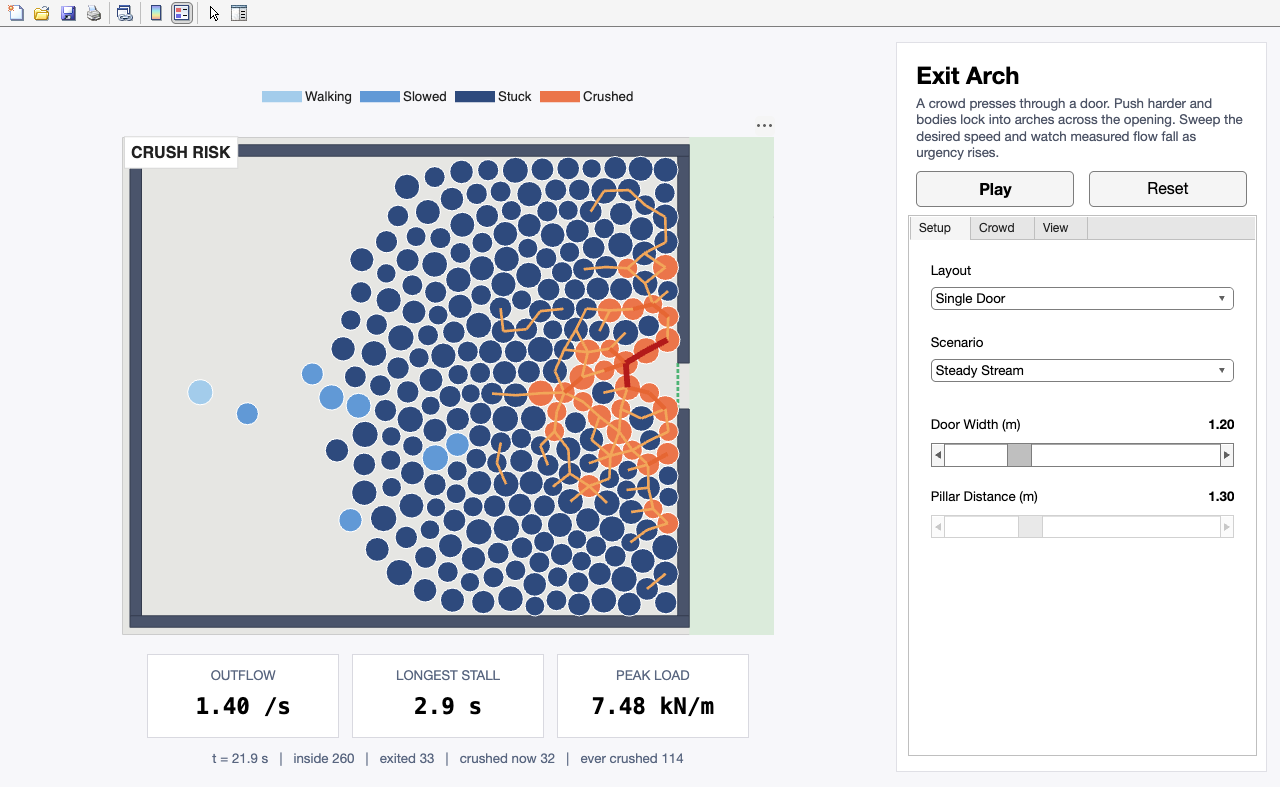
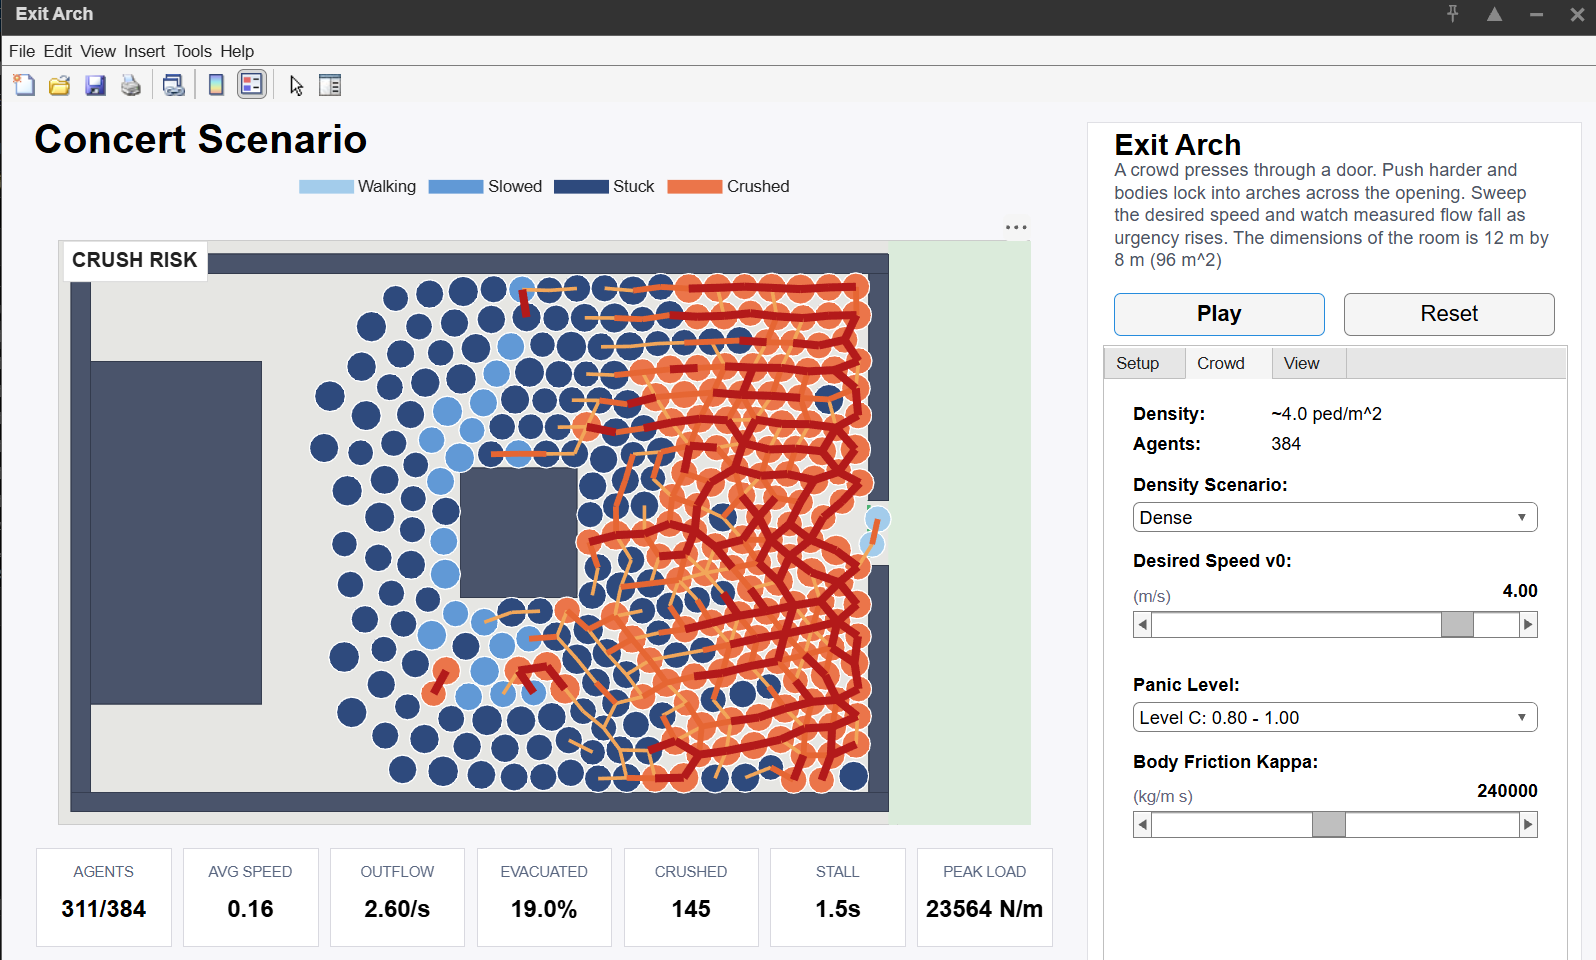
Updated the readme file

diff --git a/README.md b/README.md
@@ -1,0 +1,125 @@
+# Exit Arch (MATLAB)
+
+A MATLAB crowd evacuation simulation adapted from the "Exit Arch" simulation at [Simulate It Now](https://simulateitnow.com/sim/exitArch) for concert venue evacuation scenarios (`12 m × 8 m = 96 m²`).
+A crowd presses through a door. When people push harder, their bodies lock into arches across
+the opening and the measured outflow drops even though everyone is trying to go faster.
+This is the "faster is slower" effect.
+
+The code implements the social-force model of
+Helbing, Farkas & Vicsek, *Simulating dynamical features of escape panic*, Nature 407 (2000).
+
+![app](ExitArch/results/exitArchApp.png)
+
+## Files
+
+| File | What it does |
+|------|--------------|
+| `exitArchApp.m`    | Interactive window: play/pause, layouts, concert geometry, sliders, overlays, live readouts |
+| `exitArchParams.m` | All parameters and their defaults |
+| `exitArchInit.m`   | Builds the 12 m × 8 m room for the chosen layout and places the crowd |
+| `exitArchStep.m`   | One time step of the physics, exits, loads and status |
+| `exitArchRun.m`    | Headless run that returns metrics over time and a summary |
+| `Visualizations.m` | Runs all 9 `(density × panic)` evacuation combos and saves time-series, heatmap, and summary figures |
+| `exitArchPlace.m`  | Finds an overlap-free spot for a new person |
+| `exitArchSweep.m`  | *(Optional)* Legacy parameter sweep script across layouts & densities |
+
+## How to run
+
+```matlab
+cd ExitArch
+exitArchApp              % interactive simulation
+Visualizations           % 9-scenario evacuation benchmark (saves figures/*.png)
+
+% one headless run
+P = exitArchParams('layout', 'Pillar', 'densityScenario', 'Dense', ...
+                   'panicLevel', 'Level B', 'v0Max', 2.20, 'seed', 1);
+R = exitArchRun(P, 300);
+R.summary                % flow, longestStall, peakLoad, crushedAgents, evacTime, ...
+plot(R.series.t, R.series.outflow)
+
+```
+
+## Controls
+
+* **Setup**
+* **Layout:** Single Door, Pillar (a column in front of the door), Twin Doors, or Funnel.
+* **Door Width** (default `1.00 m`) and **Pillar Distance** (door to pillar centre, default `1.30 m`).
+* **Concert Scenario (stage):** Adds the performance stage along the left wall.
+* **Central Obstacle:** Adds a central obstruction in the room.
+
+
+* **Crowd**
+* **Density Scenario:** Sets the initial crowd size in the `12 m × 8 m` room — **Baseline** (`288` agents, `~3.0 ped/m²`), **Dense** (`384` agents, `~4.0 ped/m²`), or **High Density** (`460` agents, `~5.0 ped/m²`).
+* **Desired Speed `v0`:** Upper bound of free-flow desired speed (`0.80` to `4.50 m/s`).
+* **Panic Level:** Sets the individual panic distribution and desired speed range independently of crowd density — **Level A** (`0.00–0.49`, `v0 = 0.80–1.30 m/s`), **Level B** (`0.50–0.79`, `v0 = 1.40–2.20 m/s`), or **Level C** (`0.80–1.00`, `v0 = 2.80–4.00 m/s`).
+* **Body Friction `κ`:** Tangential sliding friction (`0` to `500,000 kg/(m·s)`, default `2.4e5`).
+
+
+* **View**
+* **Time Scale:** Simulation playback speed (`0.25×` to `4.00×`).
+* **Overlay:** Force Chains (`>200 N`, `>600 N`, `>1200 N`) or None.
+* **Density:** None or smoothed spatial Heatmap (`0` to `6+ ped/m²`).
+
+
+
+All runs use an **Evacuation** scenario: agents spawn at $t = 0$ and exit without respawning until the room empties. Changing geometry, density, `v0`, or panic level resets the run; `κ` and View options apply live.
+
+People are coloured **Walking** (at least half of mean `v0`), **Slowed**, **Stuck** (below 10% of mean `v0`),
+or **Crushed** (compression load above `1600 N/m`).
+
+The 7 cards under the room show live readouts:
+
+* **Agents:** Remaining / initial agents in the room.
+* **Avg Speed:** Mean instantaneous speed (`m/s`) of remaining agents.
+* **Outflow:** People exiting per second over a `5 s` sliding window.
+* **Evacuated:** Percentage of the initial crowd that has exited.
+* **Crushed:** Number of agents currently experiencing compression loads `> 1600 N/m`.
+* **Stall:** Longest gap (`s`) between consecutive exits.
+* **Peak Load:** Highest circumference-normalized compression load (`N/m`) recorded in the run.
+
+## The model
+
+Each person is a disc with radius `0.20` to `0.24 m` and mass `80 kg` inside a `12 m × 8 m` room:
+
+```
+m dv_i/dt = m (v0_i e_i - v_i) / tau_i                                 (wants to walk to the door)
+          + sum_j [ A exp((r_ij - d_ij)/B) + k g(r_ij - d_ij) ] n_ij   (keeps distance, body compression)
+          + sum_j kappa g(r_ij - d_ij) (dv_ji . t_ij) t_ij            (sliding friction between bodies)
+          + the same terms for walls, door jambs, stage, obstacle, and pillar
+
+```
+
+* `g(x) = max(x, 0)`, so the compression and friction terms only act when bodies touch.
+* `A = 2000 N`, `B = 0.08 m`, `k = 1.2e5 kg/s²`, `κ = 2.4e5 kg/(m·s)` (Helbing et al., 2000).
+* Individual relaxation time `τ_i = 0.5 p_i + 5.0 (1 - p_i)` scales with each agent's panic `p_i`, and panic introduces directional jitter around the desired exit vector `e_i`.
+* `e_i` points at the closest point of the nearest door that the body fits through, steering around the central obstacle and pillar.
+* Time step is `dt = 0.005 s` with semi-implicit Euler integration. The tangential friction coefficient is capped so the explicit step remains stable.
+* **Crush load** is the radial body-compression force on a person (the `k g` terms only) divided by their circumference (`2 π r_i`). Above `1600 N/m` we mark them **Crushed** — a biomechanical compressive-asphyxia risk proxy rather than a fatality prediction.
+
+Arches form because tangential friction (`κ`) lets compressed bodies lean on each other across the door opening. Higher desired speeds and panic press bodies harder into the arch, increasing stall durations and peak compression loads.
+
+## Results & Visualizations (`Visualizations.m`)
+
+`Visualizations` runs a fixed-seed (`seed = 42`) factorial benchmark across all 3 density scenarios (`Baseline`, `Dense`, `High Density`) and all 3 panic levels (`Level A`, `Level B`, `Level C`) using the default `Single Door` concert layout (`1.00 m` door, `simTime = 300 s`, stopping early once the room empties) and exports three figures to `figures/` using an Okabe-Ito colorblind-safe palette:
+
+### 1. Evacuation Metrics Over Time (`ExitArch/figures/exitarch_timeseries.png`)
+
+
+A `4 × 3` grid tracking **Avg Speed** (`m/s`), **Evacuated** (cumulative count), **Crushed (live)** (active crushed agent count), and **Peak Load** (`N/m`) over time across all 9 combinations. While higher urgency reduces overall clearance time, **Panic Level C** exhibits a concave-up evacuation curve in Dense and High Density scenarios—lagging behind Levels A and B during peak congestion due to exit arching, keeping over 100 agents simultaneously crushed and sustaining peak compression loads of `20,000–35,000 N/m`.
+
+### 2. Spatial Density & Crush-Risk Heatmaps (`ExitArch/figures/exitarch_heatmaps.png`)
+
+
+Spatial `1 m × 1 m` heatmaps at highest panic (**Level C**) showing peak crowd density (`agents/cell`) and peak circumference-normalized compression (`N/m`) accumulated over the entire evacuation, overlaid with the stage, central obstacle, and exit location. Crowd packing reaches `7–9 agents/cell` immediately upstream of the `1.00 m` exit and along the narrow corridors flanking the central obstacle, where peak crush forces concentrate.
+
+### 3. Scenario Comparison Summary (`ExitArch/figures/exitarch_summary.png`)
+
+
+Grouped bar charts comparing total **Evacuation Time (`s`)**, **Total Ever Crushed** (unique agents exposed to `> 1600 N/m`), and **Peak Load (`N/m`)** across all 9 `(density × panic)` pairs. Higher crowd density consistently increases total evacuation time and peak mechanical load, confirming that controlled movement speeds prevent frictional arching while high panic above `4.0 ped/m²` turns architectural bottlenecks into severe crush hazards.
+
+## Differences from the original web simulation
+
+* 2D top-down view with concert hall geometry (stage and central obstacle) instead of the 3D render.
+* Independent **Density Scenario** (`288 / 384 / 460` agents) and **Panic Level** (`Level A / B / C`) controls in a fixed `12 m × 8 m` Evacuation setup rather than Steady Stream respawning.
+* Sliders and readouts use physical SI units (`m/s`, `kg/(m·s)`, `N/m`) directly for quantitative analysis and reporting.
+
